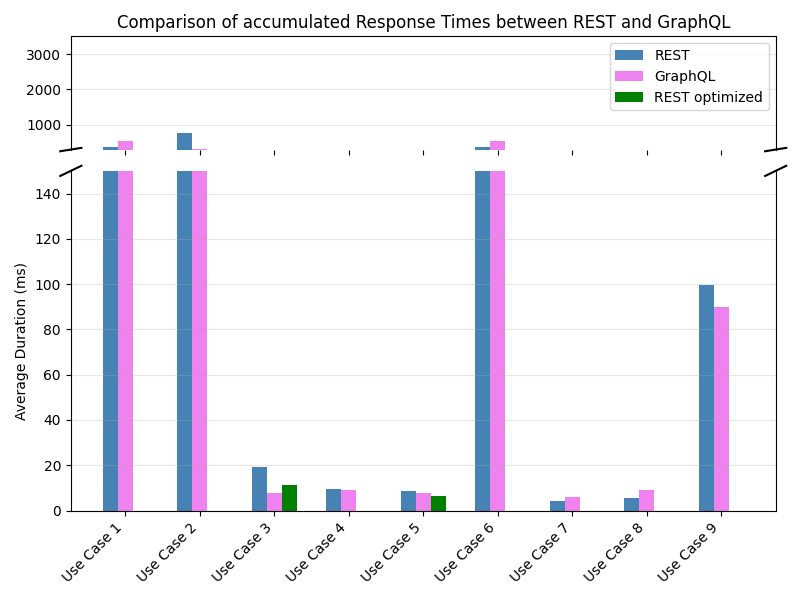
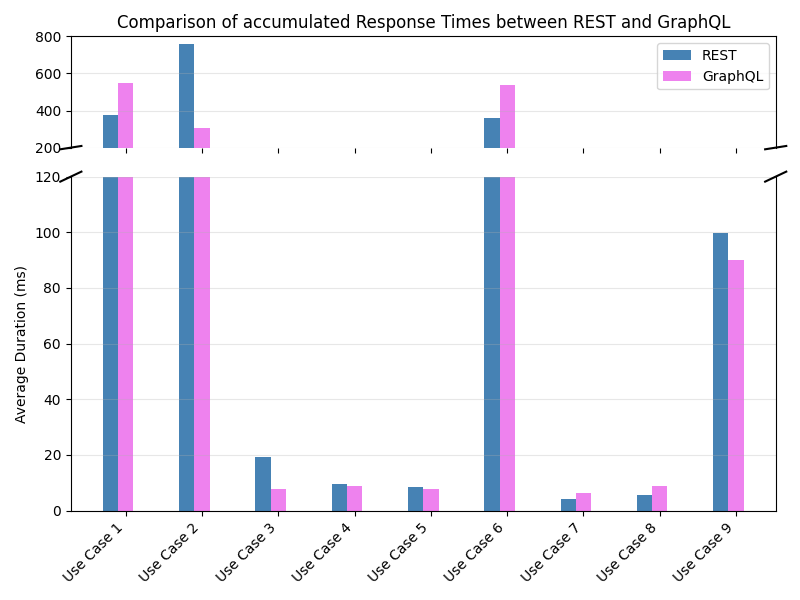
second

diff --git a/results/helpers/significance_testing_rounded.py b/results/helpers/significance_testing_rounded.py
@@ -1,0 +1,127 @@
+import numpy as np
+from scipy import stats
+import matplotlib.pyplot as plt
+import json
+import os
+import pandas as pd
+
+# Funktion zum Laden der JSON-Daten
+def load_data(filename):
+    with open(filename, 'r') as f:
+        return json.load(f)
+
+def check_normality(data, alpha=0.05):
+    mu, std = np.mean(data), np.std(data)
+    shapiro_stat, shapiro_p = stats.shapiro(data)
+    shapiro_result = "normalverteilt" if shapiro_p > alpha else "nicht normalverteilt"
+    return {
+        "mean": round(mu, 2),
+        "std_dev": round(std, 2),
+        "shapiro_stat": round(shapiro_stat, 2),
+        "shapiro_p": round(shapiro_p, 4),  # Shapiro-Wilk Test p-Wert mit vier Dezimalstellen
+        "shapiro_result": shapiro_result,
+    }
+
+def plot_normality(data, output_dir, title="Normalverteilung"):
+    stats_results = check_normality(data)
+    
+    plt.figure(figsize=(12, 6))
+
+    # Subplot 1: Histogramm
+    plt.subplot(1, 2, 1)
+    plt.hist(data, bins=30, density=True, alpha=0.6, color='g')
+    mu, std = stats_results["mean"], stats_results["std_dev"]
+    xmin, xmax = plt.xlim()
+    x = np.linspace(xmin, xmax, 100)
+    p = stats.norm.pdf(x, mu, std)
+    plt.plot(x, p, 'k', linewidth=2)
+    plt.title(f"Histogram: μ={mu:.2f}, σ={std:.2f}")
+    plt.xlabel('Werte')
+    plt.ylabel('Dichte')
+
+    # Subplot 2: Q-Q-Plot
+    plt.subplot(1, 2, 2)
+    stats.probplot(data, dist="norm", plot=plt)
+    plt.title("Q-Q-Plot")
+
+    plt.tight_layout(rect=[0, 0, 1, 0.95])
+    plt.savefig(os.path.join(output_dir, f"{title}.png"))
+    plt.close()
+
+    return stats_results
+
+def test_normality(data):
+    stat, p = stats.shapiro(data)
+    return p > 0.05
+
+def perform_stat_test(rest_data, gql_data, metric):
+    rest_values = rest_data[metric]
+    gql_values = gql_data[metric]
+
+    rest_normal = test_normality(rest_values)
+    gql_normal = test_normality(gql_values)
+
+    if rest_normal and gql_normal:
+        stat, p = stats.ttest_ind(rest_values, gql_values)
+        test_type = 't-test'
+    else:
+        stat, p = stats.mannwhitneyu(rest_values, gql_values)
+        test_type = 'Mann-Whitney-U-Test'
+
+    return test_type, round(p, 4)  # p-Wert auf 4 Nachkommastellen runden
+
+if __name__ == "__main__":
+    rest_dir = 'results/REST'
+    gql_dir = 'results/GraphQL'
+    graph_dir = 'results/graphs'
+    
+    # Mehrere Metriken
+    metrics = ["sum_response_time", "total_data_transferred"]
+
+    # Excel Writer für die Ergebnisse
+    with pd.ExcelWriter('results/statistical_results.xlsx', engine='xlsxwriter') as writer:
+        for metric in metrics:
+            result_data = []  # Ergebnisse für jede Metrik
+            for rest_file in sorted(os.listdir(rest_dir)):
+                if rest_file.startswith("rest") and rest_file.endswith(".json"):
+                    use_case_id = rest_file.replace('rest', '').replace('.json', '')  # Extrahiere die Use-Case-ID
+
+                    rest_data = load_data(os.path.join(rest_dir, rest_file))
+                    gql_file = f"gql{use_case_id}.json"
+                    gql_data = load_data(os.path.join(gql_dir, gql_file))
+
+                    # Erstellen der Verzeichnisse für die Graphen
+                    rest_graph_dir = os.path.join(graph_dir, use_case_id, 'REST')
+                    gql_graph_dir = os.path.join(graph_dir, use_case_id, 'GraphQL')
+                    os.makedirs(rest_graph_dir, exist_ok=True)
+                    os.makedirs(gql_graph_dir, exist_ok=True)
+
+                    # Plots für REST
+                    rest_stats = plot_normality(rest_data[metric], rest_graph_dir, title=f"REST {metric}")
+
+                    # Plots für GraphQL
+                    gql_stats = plot_normality(gql_data[metric], gql_graph_dir, title=f"GraphQL {metric}")
+
+                    # Statistischer Test
+                    test_type, p_value = perform_stat_test(rest_data, gql_data, metric)
+
+                    # Ergebnisse für diesen Use-Case und diese Metrik sammeln
+                    result_data.append({
+                        'Use Case': use_case_id,
+                        'Metric': metric,
+                        'REST Mean': rest_stats['mean'],
+                        'REST Std Dev': rest_stats['std_dev'],
+                        'GraphQL Mean': gql_stats['mean'],
+                        'GraphQL Std Dev': gql_stats['std_dev'],
+                        'Shapiro REST p-value': rest_stats['shapiro_p'],
+                        'Shapiro GraphQL p-value': gql_stats['shapiro_p'],
+                        'Significant Difference': 'Yes' if p_value < 0.05 else 'No',
+                        'Test Type': test_type,
+                        'p-value': p_value
+                    })
+
+            # Ergebnisse der Metrik in ein separates Blatt schreiben
+            df = pd.DataFrame(result_data)
+            df.to_excel(writer, index=False, sheet_name=f'{metric}_Results')
+
+    print("Statistical analysis and graph generation complete.")

diff --git a/results/helpers/graphs_with_averages.py b/results/helpers/graphs_with_averages.py
@@ -28,16 +28,16 @@ def create_comparison_bargraph_for_sum_response_time(metric, use_cases, bar_widt
     # Bars for REST API
     bars_rest1 = ax1.bar(use_cases - bar_width, rest_values, bar_width, label='REST', color='steelblue')
     bars_graphql1 = ax1.bar(use_cases, gql_values, bar_width, label='GraphQL', color='violet')
-    bars_rest_opt1 = ax1.bar(use_cases + bar_width, rest_opt_values, bar_width, label='REST optimized', color='green')
+    #bars_rest_opt1 = ax1.bar(use_cases + bar_width, rest_opt_values, bar_width, label='REST optimized', color='green')
 
     bars_rest2 = ax2.bar(use_cases - bar_width, rest_values, bar_width, label='REST', color='steelblue')
     bars_graphql2 = ax2.bar(use_cases, gql_values, bar_width, label='GraphQL', color='violet')
-    bars_rest_opt2 = ax2.bar(use_cases + bar_width, rest_opt_values, bar_width, label='REST optimized', color='green')
+    #bars_rest_opt2 = ax2.bar(use_cases + bar_width, rest_opt_values, bar_width, label='REST optimized', color='green')
 
 
     # Set the y-axis limits to "break" the axis
-    ax1.set_ylim(300, 3500)  # Top part of the y-axis (for larger values)
-    ax2.set_ylim(0, 150)      # Bottom part of the y-axis (for smaller values)
+    ax1.set_ylim(200, 800)  # Top part of the y-axis (for larger values)
+    ax2.set_ylim(0, 120)      # Bottom part of the y-axis (for smaller values)
 
     # Hide the spines between the two axes
     ax1.spines['bottom'].set_visible(False)
@@ -113,7 +113,7 @@ def create_comparison_bargraph_for_data_transmitted(metric, use_cases, bar_width
     # Convert bytes to kilobytes (KB)
     rest_data_kb = [x / 1024 for x in rest_values]
     graphql_data_kb = [x / 1024 for x in gql_values]
-    rest_opt_data_kb = [x / 1024 for x in rest_opt_values]
+    #rest_opt_data_kb = [x / 1024 for x in rest_opt_values]
     print(rest_data_kb)
     print(graphql_data_kb)
 
@@ -123,11 +123,11 @@ def create_comparison_bargraph_for_data_transmitted(metric, use_cases, bar_width
     # Bars for REST API
     bars_rest1 = ax1.bar(use_cases - bar_width, rest_data_kb, bar_width, label='REST', color='steelblue')
     bars_graphql1 = ax1.bar(use_cases, graphql_data_kb, bar_width, label='GraphQL', color='violet')
-    bars_rest_opt1 = ax1.bar(use_cases + bar_width, rest_opt_data_kb, bar_width, label='REST optimized', color='green')
+    #bars_rest_opt1 = ax1.bar(use_cases + bar_width, rest_opt_data_kb, bar_width, label='REST optimized', color='green')
 
     bars_rest2 = ax2.bar(use_cases - bar_width, rest_data_kb, bar_width, label='REST', color='steelblue')
     bars_graphql2 = ax2.bar(use_cases, graphql_data_kb, bar_width, label='GraphQL', color='violet')
-    bars_rest_opt2 = ax2.bar(use_cases + bar_width, rest_opt_data_kb, bar_width, label='REST optimized', color='green')
+    #bars_rest_opt2 = ax2.bar(use_cases + bar_width, rest_opt_data_kb, bar_width, label='REST optimized', color='green')
 
     # Set the y-axis limits to "break" the axis
     ax1.set_ylim(1000, 1600)  # Top part of the y-axis (for larger values)
@@ -189,13 +189,13 @@ def create_json_of_averages(rest_data, gql_data, rest_opt_data, output_dir):
         for metric in metrics:
             rest_value = rest_data[uc].get(metric, "N/A")
             gql_value = gql_data[uc.replace("rest", "gql")].get(metric, "N/A")
-            rest_opt_value = rest_opt_data.get(uc, {}).get(metric, "N/A") if uc in ['rest3', 'rest5'] else "N/A"
+            #rest_opt_value = rest_opt_data.get(uc, {}).get(metric, "N/A") if uc in ['rest3', 'rest5'] else "N/A"
             
             # Werte für die Metrik im aktuellen Testcase speichern
             averages_data[uc][metric] = {
                 "REST": rest_value,
                 "GraphQL": gql_value,
-                "REST optimized": rest_opt_value
+                #"REST optimized": rest_opt_value
             }
     
     # JSON-Datei schreiben
@@ -218,10 +218,10 @@ def create_bar_chart_for_metric(rest_data, gql_data, rest_opt_data, metric, outp
     # REST optimized nur für Testcases 3, 4 und 6 hinzufügen
     rest_opt_values = []
     for uc in use_cases:
-        if uc in ['rest3', 'rest5']:
+        """ if uc in ['rest3', 'rest5']:
             rest_opt_values.append(rest_opt_data.get(uc, {}).get(metric, 0))  # Hinzufügen von REST optimized-Werten
-        else:
-            rest_opt_values.append(0)  # Keine REST optimized-Werte für andere Use Cases
+        else: """
+        rest_opt_values.append(0)  # Keine REST optimized-Werte für andere Use Cases
 
     
     # Erstelle die X-Achse-Labels (Use-Case Nummer)
